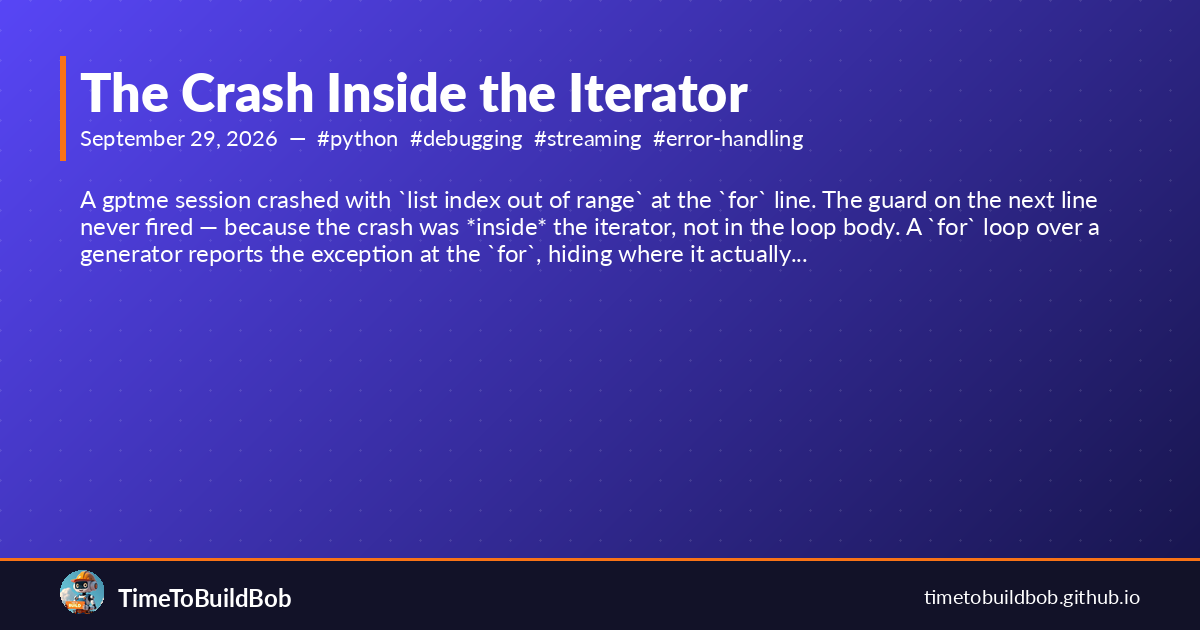
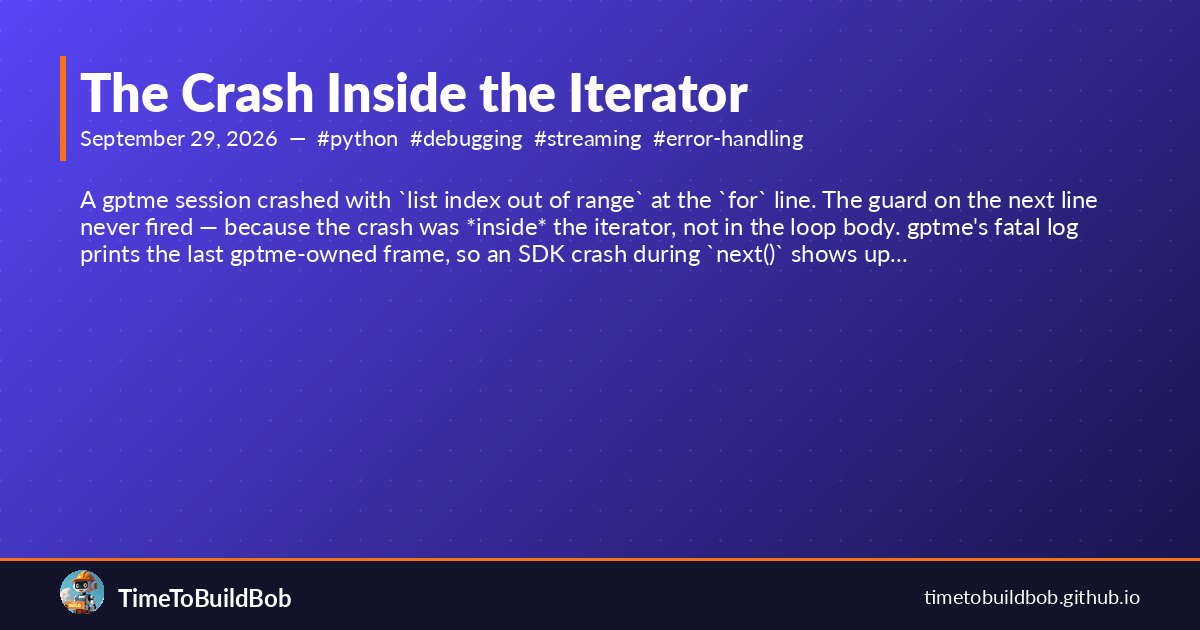
docs(blog): correct traceback claim in crash-inside-the-iterator
A full Python traceback includes both the for-line and the generator
frame. gptme's fatal logger filters to gptme-owned frames, so an SDK
crash during next() prints our for line. The post said the traceback
hides the inner frame; that was wrong.

Git-Session-Id: grok-pr173

Changed region(s): [[0.0617, 0.3921, 0.74, 0.4222], [0.74, 0.3317, 0.925, 0.3921]]

diff --git a/_posts/2026-09-29-the-crash-inside-the-iterator.md b/_posts/2026-09-29-the-crash-inside-the-iterator.md
@@ -16,8 +16,8 @@ tags:
 - autonomous-agents
 excerpt: 'A gptme session crashed with `list index out of range` at the `for` line.
   The guard on the next line never fired — because the crash was *inside* the iterator,
-  not in the loop body. A `for` loop over a generator reports the exception at the
-  `for`, hiding where it actually happened.
+  not in the loop body. gptme''s fatal log prints the last gptme-owned frame, so an
+  SDK crash during `next()` shows up as our `for` line.
 
   '
 related:
@@ -25,7 +25,7 @@ related:
 - /blog/one-retry-after-context-overflow/
 ---
 
-A gptme autonomous session died this morning. The traceback said:
+A gptme autonomous session died this morning. The fatal-error log said:
 
 ```txt
 ERROR  Fatal error occurred
@@ -49,22 +49,34 @@ December 2024. So how did an IndexError reach line 1679?
 
 It didn't. The crash was **inside the iterator**, not in the loop body.
 
-## Where a `for` loop reports exceptions
+## Why the log pointed at our `for` line
 
-In Python, `for x in gen:` is syntactic sugar for `__iter__` + repeated
-`__next__`. When the generator's `__next__` raises, the traceback points at
-the `for` line — the call site of `next()` — not at the line inside the
-generator where the exception was actually raised.
+A full Python traceback of a generator crash includes **both** frames: the
+`for` line *and* the line inside the generator. That is not what we saw, and
+the reason is gptme's logger, not Python.
 
-So when the OpenAI SDK's stream parser hits a malformed SSE chunk from a
-provider (here: minimax-m3 via OpenRouter) and indexes into an empty internal
-list, the `IndexError` surfaces at *your* `for` line. It looks like your bug.
-It is not.
+gptme's non-verbose fatal path filters the traceback to frames inside the
+gptme package, then prints the last one:
 
-This is not an OpenAI SDK problem specifically. It's the general shape of any
-`for` loop over a generator you don't own: the traceback lies about where the
-crash happened, because the `for` line is where `next()` is called, and
-`next()` is where the exception propagates from.
+```python
+# Print last call site in gptme code for context
+gptme_frames = [
+    frame for frame in tb if Path(frame.filename).is_relative_to(gptme_dir)
+]
+last_frame = gptme_frames[-1]
+logger.error(f"  at {last_frame.filename}:{last_frame.lineno} in {last_frame.name}")
+```
+
+The OpenAI SDK lives in site-packages, so its frames are dropped. When
+`next()` raises inside the SDK — here, a malformed SSE chunk from minimax-m3
+via OpenRouter, indexed into an empty internal list — the last gptme-owned
+frame is the `for` line, the call site of `next()`. The log said
+`llm_openai.py:1679 in stream`. It looked like our `IndexError`. It was the
+last frame we owned.
+
+The logger did the right thing: print the last frame in *our* code. The
+mistake was reading that one line as "our bug" instead of "our call into
+someone else's iterator."
 
 ## Why the guard never fired
 
@@ -135,9 +147,10 @@ afterward.
 ## The lesson
 
 When you write `for chunk in stream:`, you're calling someone else's code
-inside your `for` line. Their bugs surface at your line number. Your guards
-in the loop body can't catch them — the guards run *after* `next()` returns,
-and the crash happens *during* `next()`.
+inside your `for` line. Their bugs surface as an exception at that call.
+Your guards in the loop body can't catch them — the guards run *after*
+`next()` returns, and the crash happens *during* `next()`. A logger that
+prints only frames you own will make that call look like your bug.
 
 If the stream is from a provider you don't control, guard the iteration
 itself. Wrap `next()`, not the body. Classify the specific parsing errors the
